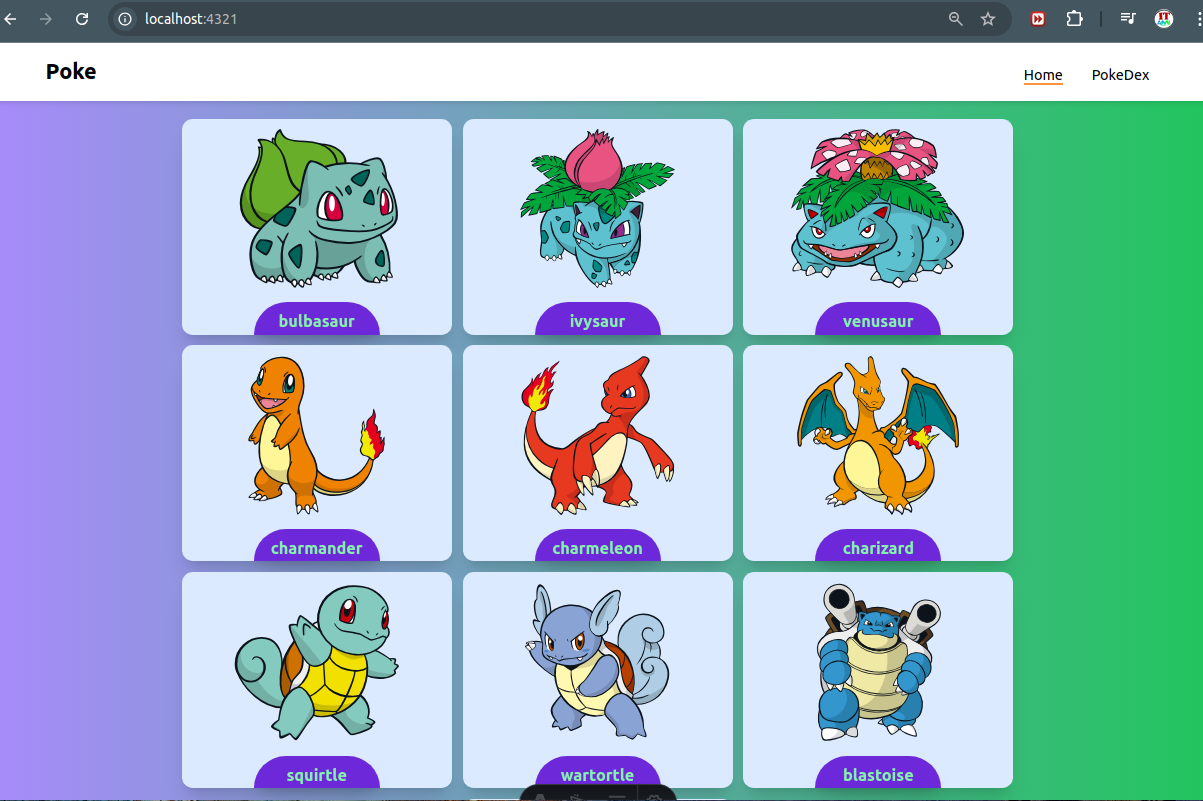
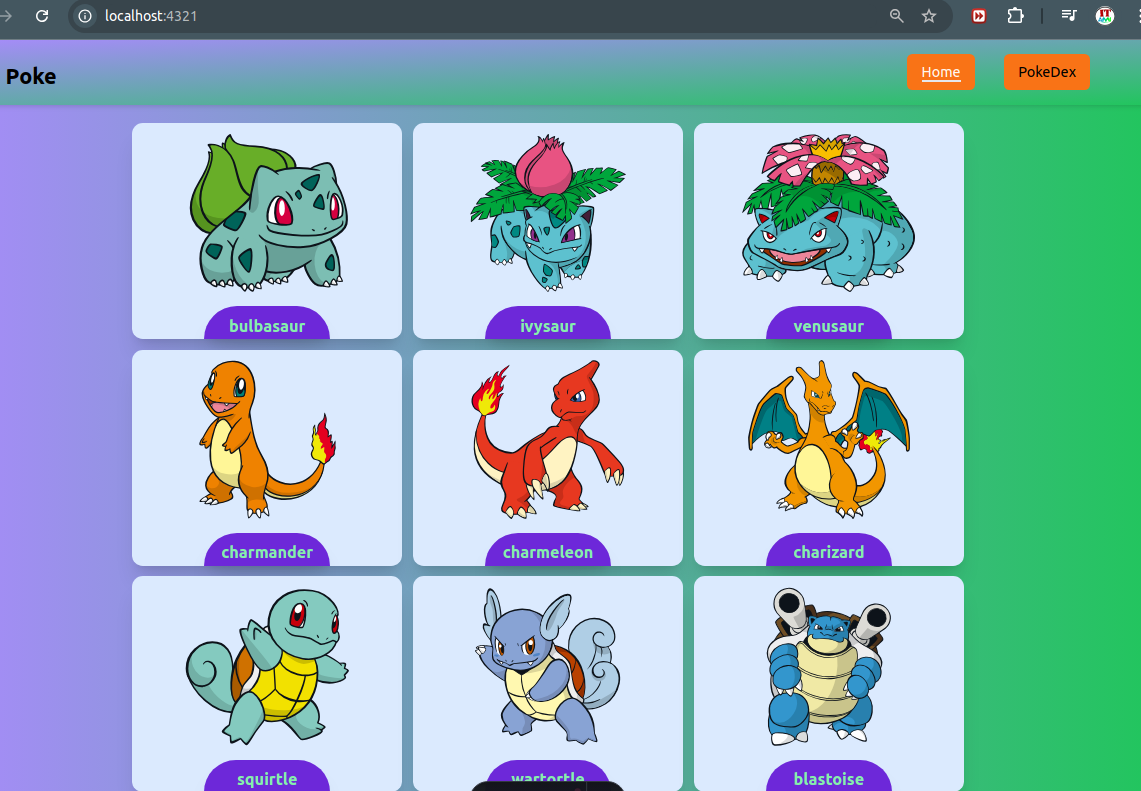
penambahan react dan perbaikan gambar 5

diff --git a/README.md b/README.md
@@ -1,6 +1,8 @@
 # Hasil Tampilan WEB
 
 ![This is an alt text.](/src/asset/images/web1.png "This is a sample image.")
+<br/>
+![This is an alt text.](/src/asset/images/web2.png "This is a sample image.")
 
 ## Source acuan belajar
 youtube : https://www.youtube.com/watch?v=WUAkE3F-dto<br/>
